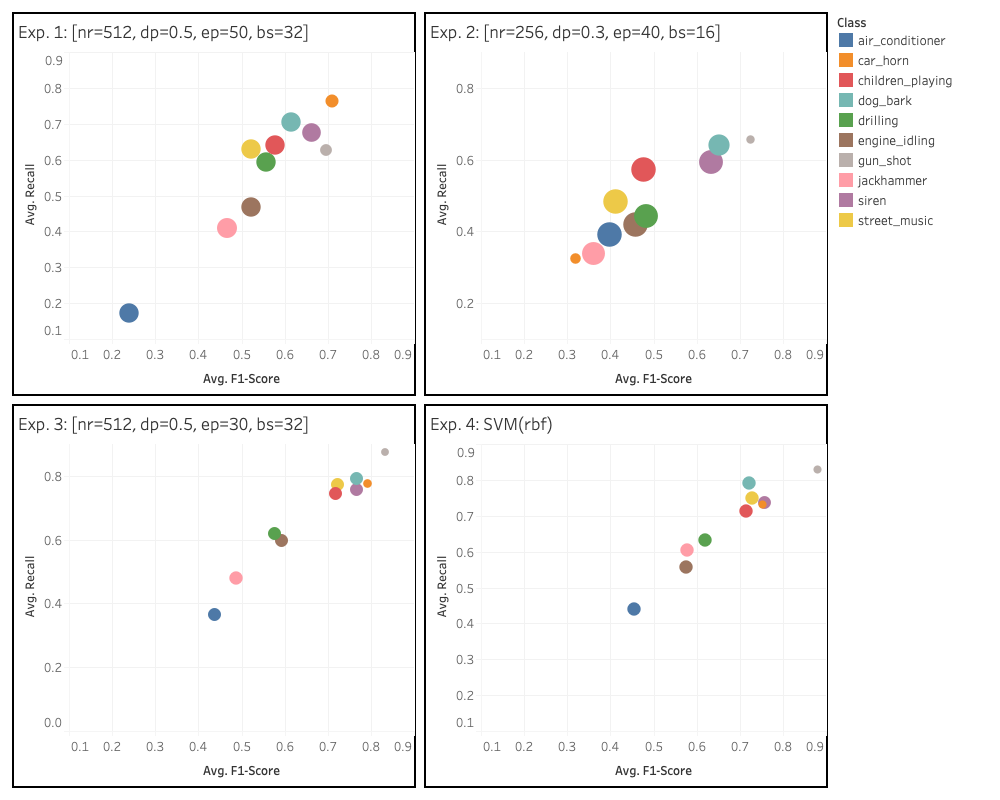
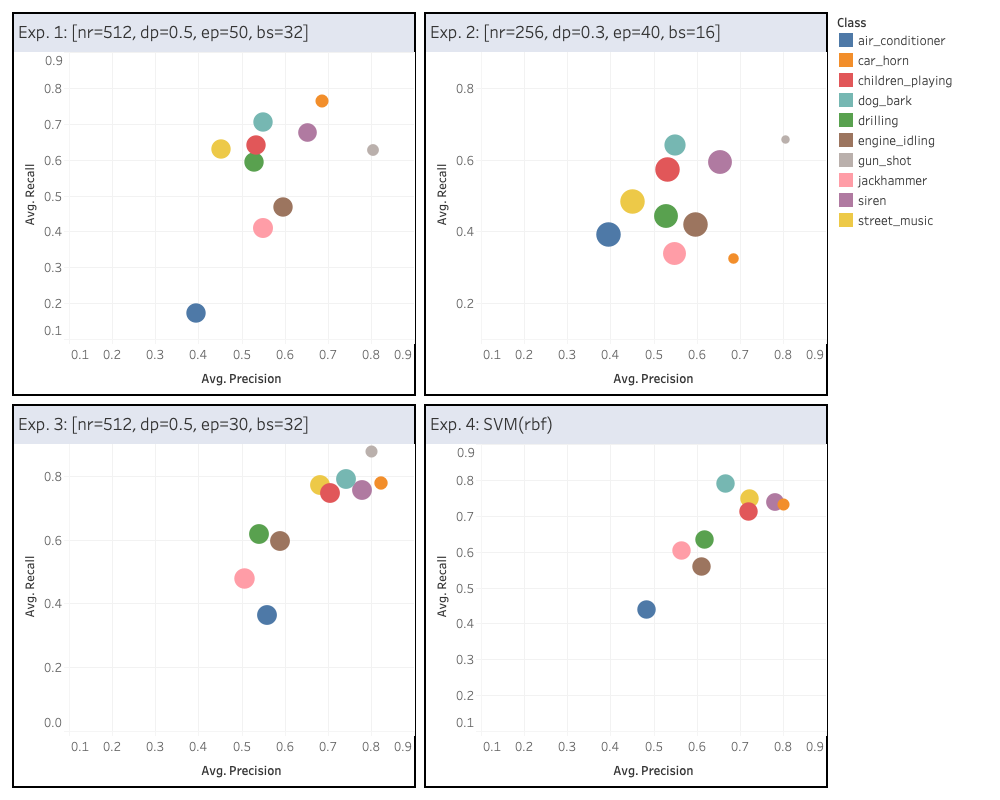
updating images

diff --git a/static/js/chart_results.js b/static/js/chart_results.js
@@ -30,9 +30,9 @@ function barChart() {
 
     values = Object.values(bestScores).map( (sc)=>{
       console.log(sc)
-      prec_v = sc.avg_scores[0].precision
-      console.log(prec_v)
-      return prec_v[i]
+      f1_score = sc.avg_scores[0]["f1-score"]
+      console.log(f1_score)
+      return f1_score[i]
     });
     console.log(cl, values)
     var data_one = {
@@ -60,7 +60,7 @@ function barChart() {
       },
       title: {
           display: true,
-          text: "Precisions"
+          text: "F1-Scores"
       },
     }
   });
@@ -69,7 +69,7 @@ function barChart() {
 function bubbleChart(ctx, avg_scores) {
   //avg_scores is a dict.
   classNames = avg_scores["class"]
-  f1_scores = avg_scores['f1-score']
+  precisions = avg_scores['precision']
   recalls = avg_scores['recall']
   supports = avg_scores['support']
   var dataBubble = classNames.map((cl, i) => {
@@ -80,7 +80,7 @@ function bubbleChart(ctx, avg_scores) {
       backgroundColor: classColors[cl],
       borderColor: classColors[cl],
       data: [{
-        x: f1_scores[i],
+        x: precisions[i],
         y: recalls[i],
         r: supports[i]/50
       }]    
@@ -106,19 +106,19 @@ function bubbleChart(ctx, avg_scores) {
       },
       title: {
           display: true,
-          text: "f1-score vs. recall of classes"
+          text: "Precision vs. Recall of classes"
       },
       scales: {
         xAxes: [{
           scaleLable: {
             display: true,
-            labelString: "f1-score"
+            labelString: "Precision"
           }
         }],
         yAxes: [{
           scaleLable: {
             display: true,
-            labelString: "recall"
+            labelString: "Recall"
           }
         }]
       }

diff --git a/result.html b/result.html
@@ -77,7 +77,7 @@
               </tr>
             </tbody>
           </table>
-          <h4> F1-Score vs. Recall of best models</h4>
+          <h4> Precision vs. Recall of Best Models</h4>
           <img src="images/best_models2.png">
         </div>
         <div class="col-md-2">
@@ -93,7 +93,7 @@
         <div class="col-md-10 ml-3">
           <div class="card">
             <h4 class="card-header"> 
-              Class Precisions of Experiments
+              Class F1-Scores of Experiments
             </h4>
             <canvas id="myBar"></canvas>
           </div>
